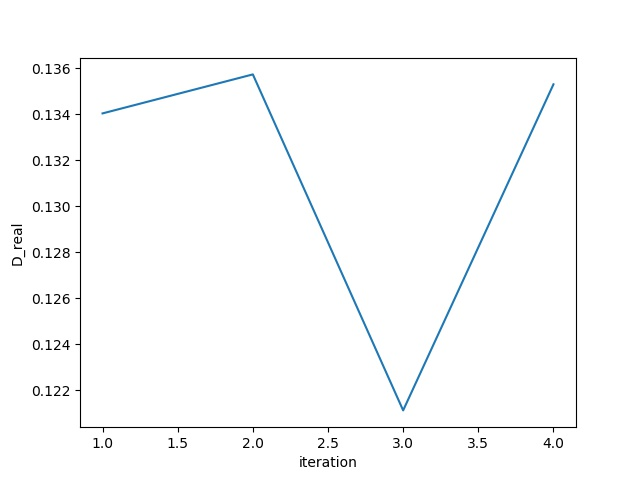
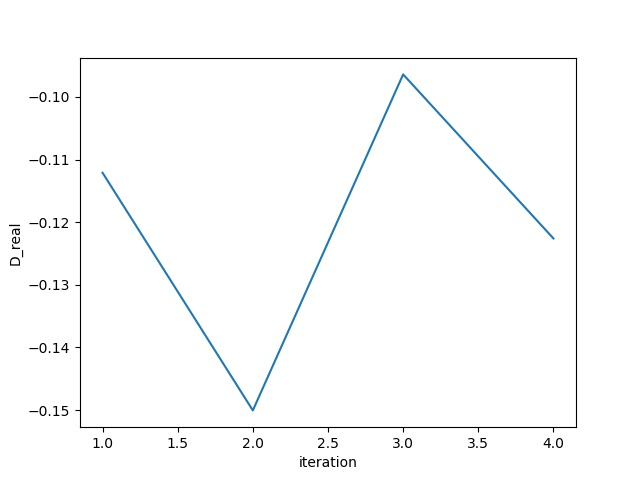
dev

diff --git a/gan_mnist_onehot1.py b/gan_mnist_onehot1.py
@@ -24,7 +24,7 @@ from ops import mmd
 MODE = 'wgan-gp' # dcgan, wgan, or wgan-gp
 DIM = 64 # Model dimensionality
 BATCH_SIZE = 50 # Batch size
-CRITIC_ITERS = 1 # For WGAN and WGAN-GP, number of critic iters per gen iter
+CRITIC_ITERS = 5 # For WGAN and WGAN-GP, number of critic iters per gen iter
 LAMBDA = 10 # Gradient penalty lambda hyperparameter
 ITERS = 200000 # How many generator iterations to train for 
 OUTPUT_DIM = 784 # Number of pixels in MNIST (28*28)
@@ -127,62 +127,67 @@ class_loss_fake = tf.reduce_mean(tf.nn.sigmoid_cross_entropy_with_logits(labels=
 bandwidths = [2.0, 5.0, 10.0, 20.0, 40.0, 80.0]
 kernel_cost = mmd.mix_rbf_mmd2(disc_real,disc_fake,sigmas=bandwidths,id=BATCH_SIZE)
 ind_t=tf.placeholder(tf.int32,[10])
-# for i in range(10):
-#     find_index = tf.where(tf.equal(real_label,i))
-#     Image_c = tf.gather(disc_real[0],find_index)
-#     Gimage_c = tf.gather(disc_fake[0],find_index)
-#     con_kernel_cost+=mmd.mix_rbf_mmd2(Image_c,Gimage_c,sigmas=bandwidths,id=ind_t[i])
+con_kernel_cost=0
+for i in range(10):
+    find_index = tf.where(tf.equal(real_label,i))
+    Image_c = tf.gather(disc_real[0],find_index)
+    Gimage_c = tf.gather(disc_fake[0],find_index)
+    Image_c_s = tf.reshape(Image_c,[-1,1])
+    Gimage_c_s = tf.reshape(Gimage_c,[-1,1])
+    con_kernel_cost+=mmd.mix_rbf_mmd2(Image_c_s,Gimage_c_s,sigmas=bandwidths,id=ind_t[i])
 
-find_index_0 = tf.where(tf.equal(real_label,0))
-Image_c_0 = tf.gather(disc_real[0],find_index_0)
-Gimage_c_0 = tf.gather(disc_fake[0],find_index_0)
-con_kernel_cost_0=mmd.mix_rbf_mmd2(Image_c_0,Gimage_c_0,sigmas=bandwidths,id=ind_t[0])
+# find_index_0 = tf.where(tf.equal(real_label,0))
+# Image_c_0 = tf.gather(disc_real,find_index_0)
+# Gimage_c_0 = tf.gather(disc_fake,find_index_0)
+# Ima0 = tf.reshape(Image_c_0,[-1,1])
+# Gimg0= tf.reshape(Gimage_c_0,[-1,1])
+# con_kernel_cost_0=mmd.mix_rbf_mmd2(Ima0,Gimg0,sigmas=bandwidths,id=ind_t[0])
 
-find_index_1 = tf.where(tf.equal(real_label,1))
-Image_c_1 = tf.gather(disc_real[0],find_index_1)
-Gimage_c_1 = tf.gather(disc_fake[0],find_index_1)
-con_kernel_cost_1=mmd.mix_rbf_mmd2(Image_c_1,Gimage_c_1,sigmas=bandwidths,id=ind_t[1])
-
-
-find_index_2 = tf.where(tf.equal(real_label,2))
-Image_c_2 = tf.gather(disc_real[0],find_index_2)
-Gimage_c_2 = tf.gather(disc_fake[0],find_index_2)
-con_kernel_cost_2=mmd.mix_rbf_mmd2(Image_c_2,Gimage_c_2,sigmas=bandwidths,id=ind_t[2])
-
-find_index_3 = tf.where(tf.equal(real_label,3))
-Image_c_3 = tf.gather(disc_real[0],find_index_3)
-Gimage_c_3 = tf.gather(disc_fake[0],find_index_3)
-con_kernel_cost_3=mmd.mix_rbf_mmd2(Image_c_3,Gimage_c_3,sigmas=bandwidths,id=ind_t[3])
-
-find_index_4 = tf.where(tf.equal(real_label,4))
-Image_c_4 = tf.gather(disc_real[0],find_index_4)
-Gimage_c_4 = tf.gather(disc_fake[0],find_index_4)
-con_kernel_cost_4=mmd.mix_rbf_mmd2(Image_c_4,Gimage_c_4,sigmas=bandwidths,id=ind_t[4])
-
-find_index_5 = tf.where(tf.equal(real_label,5))
-Image_c_5 = tf.gather(disc_real[0],find_index_5)
-Gimage_c_5 = tf.gather(disc_fake[0],find_index_5)
-con_kernel_cost_5=mmd.mix_rbf_mmd2(Image_c_5,Gimage_c_5,sigmas=bandwidths,id=ind_t[5])
-
-find_index_6 = tf.where(tf.equal(real_label,6))
-Image_c_6 = tf.gather(disc_real[0],find_index_6)
-Gimage_c_6 = tf.gather(disc_fake[0],find_index_6)
-con_kernel_cost_6=mmd.mix_rbf_mmd2(Image_c_6,Gimage_c_6,sigmas=bandwidths,id=ind_t[6])
-
-find_index_7 = tf.where(tf.equal(real_label,7))
-Image_c_7 = tf.gather(disc_real[0],find_index_7)
-Gimage_c_7 = tf.gather(disc_fake[0],find_index_7)
-con_kernel_cost_7=mmd.mix_rbf_mmd2(Image_c_7,Gimage_c_7,sigmas=bandwidths,id=ind_t[7])
-
-find_index_8 = tf.where(tf.equal(real_label,8))
-Image_c_8 = tf.gather(disc_real[0],find_index_8)
-Gimage_c_8 = tf.gather(disc_fake[0],find_index_8)
-con_kernel_cost_8=mmd.mix_rbf_mmd2(Image_c_8,Gimage_c_8,sigmas=bandwidths,id=ind_t[8])
-
-find_index_9 = tf.where(tf.equal(real_label,9))
-Image_c_9 = tf.gather(disc_real[0],find_index_9)
-Gimage_c_9 = tf.gather(disc_fake[0],find_index_9)
-con_kernel_cost_9=mmd.mix_rbf_mmd2(Image_c_9,Gimage_c_9,sigmas=bandwidths,id=ind_t[9])
+# find_index_1 = tf.where(tf.equal(real_label,1))
+# Image_c_1 = tf.gather(disc_real[0],find_index_1)
+# Gimage_c_1 = tf.gather(disc_fake[0],find_index_1)
+# con_kernel_cost_1=mmd.mix_rbf_mmd2(Image_c_1,Gimage_c_1,sigmas=bandwidths,id=ind_t[1])
+#
+#
+# find_index_2 = tf.where(tf.equal(real_label,2))
+# Image_c_2 = tf.gather(disc_real[0],find_index_2)
+# Gimage_c_2 = tf.gather(disc_fake[0],find_index_2)
+# con_kernel_cost_2=mmd.mix_rbf_mmd2(Image_c_2,Gimage_c_2,sigmas=bandwidths,id=ind_t[2])
+#
+# find_index_3 = tf.where(tf.equal(real_label,3))
+# Image_c_3 = tf.gather(disc_real[0],find_index_3)
+# Gimage_c_3 = tf.gather(disc_fake[0],find_index_3)
+# con_kernel_cost_3=mmd.mix_rbf_mmd2(Image_c_3,Gimage_c_3,sigmas=bandwidths,id=ind_t[3])
+#
+# find_index_4 = tf.where(tf.equal(real_label,4))
+# Image_c_4 = tf.gather(disc_real[0],find_index_4)
+# Gimage_c_4 = tf.gather(disc_fake[0],find_index_4)
+# con_kernel_cost_4=mmd.mix_rbf_mmd2(Image_c_4,Gimage_c_4,sigmas=bandwidths,id=ind_t[4])
+#
+# find_index_5 = tf.where(tf.equal(real_label,5))
+# Image_c_5 = tf.gather(disc_real[0],find_index_5)
+# Gimage_c_5 = tf.gather(disc_fake[0],find_index_5)
+# con_kernel_cost_5=mmd.mix_rbf_mmd2(Image_c_5,Gimage_c_5,sigmas=bandwidths,id=ind_t[5])
+#
+# find_index_6 = tf.where(tf.equal(real_label,6))
+# Image_c_6 = tf.gather(disc_real[0],find_index_6)
+# Gimage_c_6 = tf.gather(disc_fake[0],find_index_6)
+# con_kernel_cost_6=mmd.mix_rbf_mmd2(Image_c_6,Gimage_c_6,sigmas=bandwidths,id=ind_t[6])
+#
+# find_index_7 = tf.where(tf.equal(real_label,7))
+# Image_c_7 = tf.gather(disc_real[0],find_index_7)
+# Gimage_c_7 = tf.gather(disc_fake[0],find_index_7)
+# con_kernel_cost_7=mmd.mix_rbf_mmd2(Image_c_7,Gimage_c_7,sigmas=bandwidths,id=ind_t[7])
+#
+# find_index_8 = tf.where(tf.equal(real_label,8))
+# Image_c_8 = tf.gather(disc_real[0],find_index_8)
+# Gimage_c_8 = tf.gather(disc_fake[0],find_index_8)
+# con_kernel_cost_8=mmd.mix_rbf_mmd2(Image_c_8,Gimage_c_8,sigmas=bandwidths,id=ind_t[8])
+#
+# find_index_9 = tf.where(tf.equal(real_label,9))
+# Image_c_9 = tf.gather(disc_real[0],find_index_9)
+# Gimage_c_9 = tf.gather(disc_fake[0],find_index_9)
+# con_kernel_cost_9=mmd.mix_rbf_mmd2(Image_c_9,Gimage_c_9,sigmas=bandwidths,id=ind_t[9])
 
 alpha = tf.random_uniform(
    shape=[BATCH_SIZE,1],
@@ -197,11 +202,8 @@ slopes = tf.sqrt(tf.reduce_sum(tf.square(gradients), reduction_indices=[1]))
 gradient_penalty = tf.reduce_mean((slopes-1.)**2)
 gp_cost= 1*gradient_penalty
 
-con_kernel_cost=con_kernel_cost_0+con_kernel_cost_1+con_kernel_cost_2+con_kernel_cost_3+con_kernel_cost_4+con_kernel_cost_5+con_kernel_cost_6+con_kernel_cost_6+con_kernel_cost_7+con_kernel_cost_8+con_kernel_cost_9
-
-
 gen_cost  = con_kernel_cost+1*(class_loss_real+class_loss_fake)
-disc_cost = -1*(kernel_cost)+1*(class_loss_real+class_loss_fake)+gp_cost
+disc_cost = -1*(con_kernel_cost)+1*(class_loss_real+class_loss_fake)+gp_cost
 
 gen_train_op = tf.train.AdamOptimizer(learning_rate=1e-4,beta1=0.5,beta2=0.9).minimize(gen_cost, var_list=gen_params)
 disc_train_op = tf.train.AdamOptimizer(learning_rate=1e-4,beta1=0.5,beta2=0.9).minimize(disc_cost, var_list=disc_params)
@@ -243,7 +245,6 @@ with tf.Session(config=config) as session:
             num_index.append(whlen)
         if  np.shape(np.unique(_label))[0]<10:
             continue
-        #print num_index
         if iteration > 0:
             _ = session.run(gen_train_op,feed_dict={real_data:_data,real_label:_label,ind_t:np.array(num_index)})
         for i in xrange(CRITIC_ITERS):
@@ -258,21 +259,17 @@ with tf.Session(config=config) as session:
                 [disc_cost, disc_train_op],
                 feed_dict={real_data: _data,real_label:_label,ind_t:np.array(num_index)}
             )
-        d_real,d_fake=session.run([disc_real,disc_fake],feed_dict={real_data:_data,real_label:_label,ind_t:np.array(num_index)})
+            d_real,d_fake=session.run([disc_real,disc_fake],feed_dict={real_data:_data,real_label:_label,ind_t:np.array(num_index)})
             #_disc,_class_real,_class_fake,con_cost,_gp_cost= session.run([disc_cost,class_loss_real,class_loss_fake,con_kernel_cost,gp_cost],feed_dict={real_data:_data,real_label:_label,ind_t:np.array(num_index)})
         if iteration>0:
             lib.plot.plot('train disc cost', _disc_cost)
             lib.plot.plot('D_real',np.mean(d_real))
             lib.plot.plot('D_fake',np.mean(d_fake))
         if iteration%100==99:
-            k0,k1,k2,k3,k4,k5,k6,k7,k8,k9= session.run([con_kernel_cost_0,con_kernel_cost_1,con_kernel_cost_2,con_kernel_cost_3,con_kernel_cost_4,con_kernel_cost_5,con_kernel_cost_6,con_kernel_cost_7,con_kernel_cost_8,con_kernel_cost_9],feed_dict={real_data:_data,real_label:_label,ind_t:np.array(num_index)})
-            con_result=[k0,k1,k2,k3,k4,k5,k6,k7,k8,k9]
             print "total_kernel_loss:"
             print session.run(kernel_cost,feed_dict={real_data:_data,real_label:_label,ind_t:np.array(num_index)})
             print "con_kernel_loss:"
             print session.run(con_kernel_cost,feed_dict={real_data:_data,real_label:_label,ind_t:np.array(num_index)})
-            print "con_detail:"
-            print con_result
             lib.plot.plot('time', time.time() - start_time)
 
         # Calculate dev loss and generate samples every 100 iters
